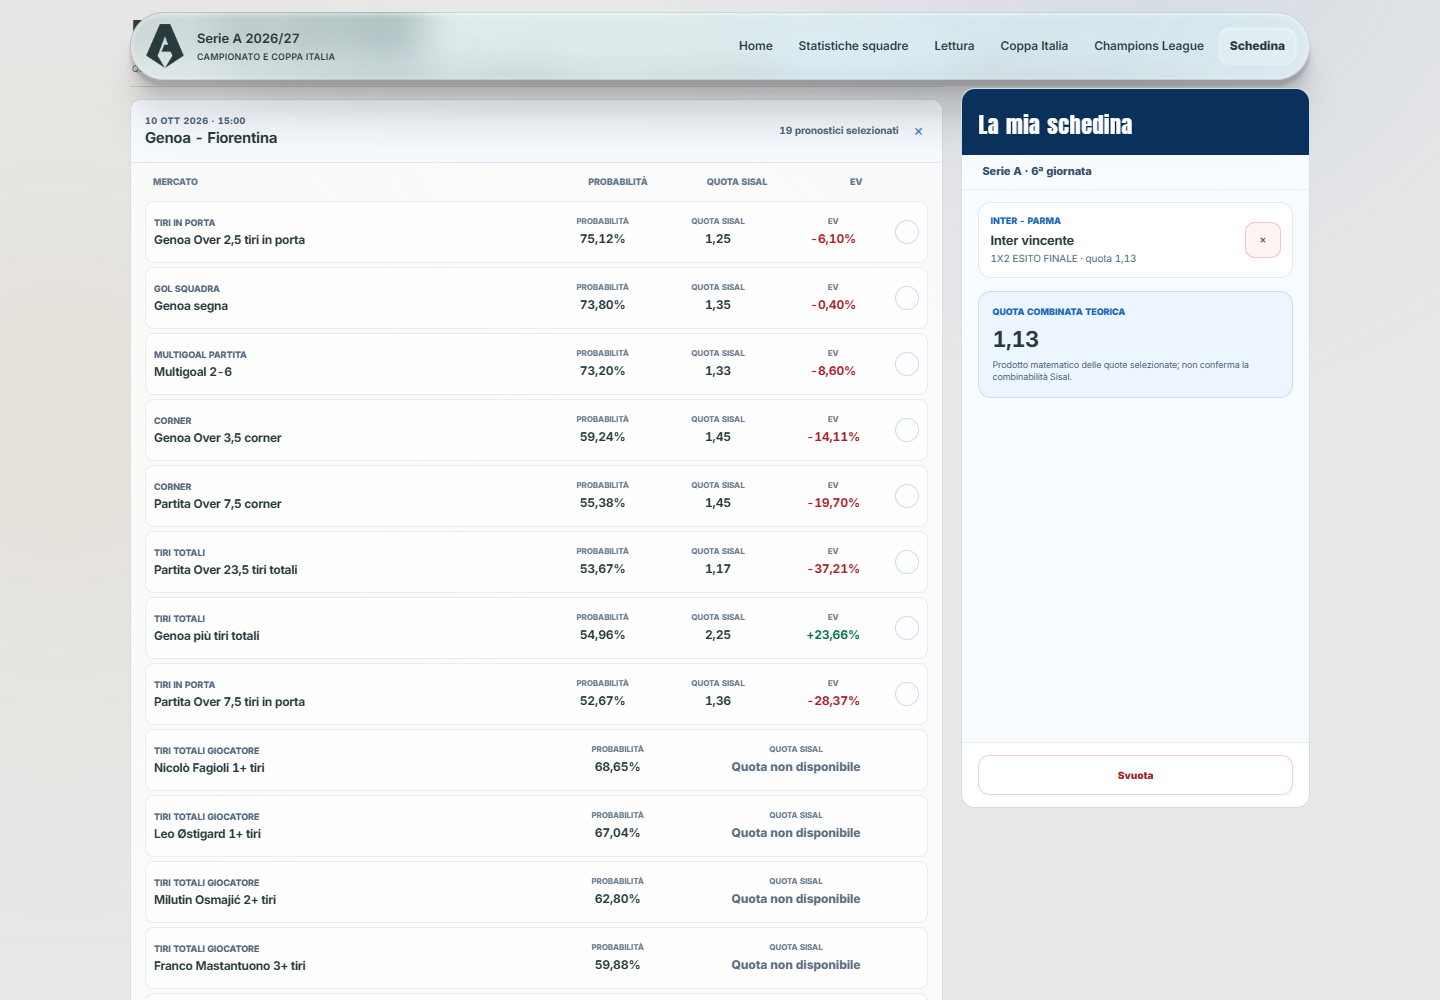
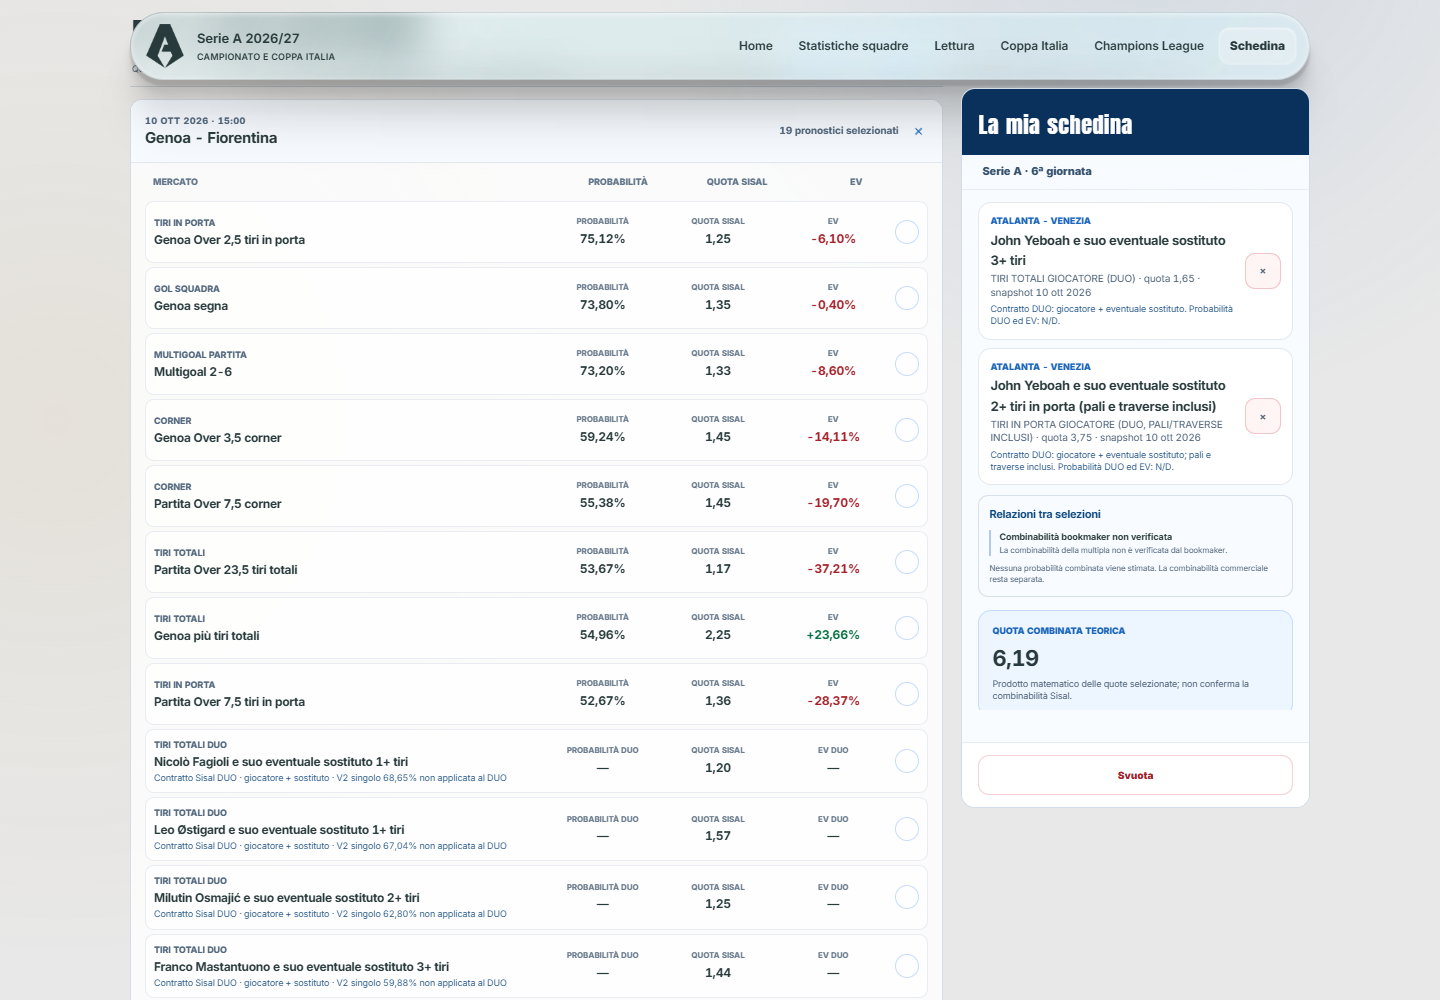
quote editate

diff --git a/schedina.html b/schedina.html
@@ -1,2 +1,2 @@
 <!doctype html>
-<html lang="it"><head><meta charset="utf-8"><meta name="viewport" content="width=device-width,initial-scale=1"><meta name="description" content="Serie A e Coppa Italia 2026/27: Schedina"><title>Schedina | Serie A 2026/27</title><link rel="preconnect" href="https://fonts.googleapis.com"><link rel="preconnect" href="https://fonts.gstatic.com" crossorigin><link href="https://fonts.googleapis.com/css2?family=Anton&family=Inter:ital,opsz,wght@0,14..32,100..900;1,14..32,100..900&display=swap" rel="stylesheet"><link rel="stylesheet" href="css/styles.css?v=20261010-schedine-definitive-v1"></head><body data-page="betting"><header id="site-top" class="site-header"><a class="brand" href="index.html"><span class="brand-mark"><img src="assets/images/serie-a-logo-mark.png" alt=""></span><span><strong>Serie A 2026/27</strong><small>Campionato e Coppa Italia</small></span></a><button class="menu-button" type="button" aria-controls="site-nav" aria-expanded="false">Menu</button><nav id="site-nav" class="site-nav" aria-label="Navigazione principale"><a class="page-link" data-page-link="home" href="index.html">Home</a><a class="page-link" data-page-link="team-stats" href="statistiche-squadre.html">Statistiche squadre</a><a class="page-link" data-page-link="readings" href="lettura.html">Lettura</a><a class="page-link" data-page-link="cup" href="coppa-italia.html">Coppa Italia</a><a class="page-link" data-page-link="champions" href="champions-league.html">Champions League</a><a class="page-link active" data-page-link="betting" href="schedina.html">Schedina</a></nav></header><main id="app" tabindex="-1"><section class="loading"><p class="eyebrow">Caricamento</p><h1>Schedina</h1></section></main><footer class="site-footer"><div class="site-footer-inner"><div class="site-footer-top"><div class="site-footer-intro"><a class="footer-brand" href="index.html"><span class="footer-brand-mark"><img src="assets/images/serie-a-logo-mark.png" alt=""></span><span><strong>Serie A 2026/27</strong><small>Campionato e Coppa Italia</small></span></a><p>Calendario, rose, statistiche e letture della stagione raccolti in un unico spazio.</p><span class="footer-season">Stagione 2026/27</span></div><nav class="footer-nav" aria-label="Navigazione nel footer"><div><strong>Campionato</strong><a href="index.html">Home</a><a href="statistiche-squadre.html">Statistiche squadre</a></div><div><strong>Approfondimenti</strong><a href="lettura.html">Lettura</a><a href="coppa-italia.html">Coppa Italia</a><a href="champions-league.html">Champions League</a><a href="schedina.html">Schedina</a><a href="fonti.html">Fonti</a></div></nav></div><div class="site-footer-bottom"><p>Progetto statico indipendente <span aria-hidden="true">·</span> Fonti consultabili nella pagina dedicata</p><a href="#site-top">Torna su <span aria-hidden="true">↑</span></a></div></div></footer><script type="module" src="js/app.js?v=20261010-schedine-definitive-v1"></script></body></html>
+<html lang="it"><head><meta charset="utf-8"><meta name="viewport" content="width=device-width,initial-scale=1"><meta name="description" content="Serie A e Coppa Italia 2026/27: Schedina"><title>Schedina | Serie A 2026/27</title><link rel="preconnect" href="https://fonts.googleapis.com"><link rel="preconnect" href="https://fonts.gstatic.com" crossorigin><link href="https://fonts.googleapis.com/css2?family=Anton&family=Inter:ital,opsz,wght@0,14..32,100..900;1,14..32,100..900&display=swap" rel="stylesheet"><link rel="stylesheet" href="css/styles.css?v=20261010-md06-duo-markets-v1"></head><body data-page="betting"><header id="site-top" class="site-header"><a class="brand" href="index.html"><span class="brand-mark"><img src="assets/images/serie-a-logo-mark.png" alt=""></span><span><strong>Serie A 2026/27</strong><small>Campionato e Coppa Italia</small></span></a><button class="menu-button" type="button" aria-controls="site-nav" aria-expanded="false">Menu</button><nav id="site-nav" class="site-nav" aria-label="Navigazione principale"><a class="page-link" data-page-link="home" href="index.html">Home</a><a class="page-link" data-page-link="team-stats" href="statistiche-squadre.html">Statistiche squadre</a><a class="page-link" data-page-link="readings" href="lettura.html">Lettura</a><a class="page-link" data-page-link="cup" href="coppa-italia.html">Coppa Italia</a><a class="page-link" data-page-link="champions" href="champions-league.html">Champions League</a><a class="page-link active" data-page-link="betting" href="schedina.html">Schedina</a></nav></header><main id="app" tabindex="-1"><section class="loading"><p class="eyebrow">Caricamento</p><h1>Schedina</h1></section></main><footer class="site-footer"><div class="site-footer-inner"><div class="site-footer-top"><div class="site-footer-intro"><a class="footer-brand" href="index.html"><span class="footer-brand-mark"><img src="assets/images/serie-a-logo-mark.png" alt=""></span><span><strong>Serie A 2026/27</strong><small>Campionato e Coppa Italia</small></span></a><p>Calendario, rose, statistiche e letture della stagione raccolti in un unico spazio.</p><span class="footer-season">Stagione 2026/27</span></div><nav class="footer-nav" aria-label="Navigazione nel footer"><div><strong>Campionato</strong><a href="index.html">Home</a><a href="statistiche-squadre.html">Statistiche squadre</a></div><div><strong>Approfondimenti</strong><a href="lettura.html">Lettura</a><a href="coppa-italia.html">Coppa Italia</a><a href="champions-league.html">Champions League</a><a href="schedina.html">Schedina</a><a href="fonti.html">Fonti</a></div></nav></div><div class="site-footer-bottom"><p>Progetto statico indipendente <span aria-hidden="true">·</span> Fonti consultabili nella pagina dedicata</p><a href="#site-top">Torna su <span aria-hidden="true">↑</span></a></div></div></footer><script type="module" src="js/app.js?v=20261010-md06-duo-markets-v1"></script></body></html>

diff --git a/js/pages/betting.js b/js/pages/betting.js
@@ -79,7 +79,7 @@ export function createPage(deps){
     const evaluation=leg.betSelection.evaluation,market=leg.betSelection.market||{},semantics=market.bookmakerSemantics||{},selection=registerSelection(leg,{fixture,sourceSection}),quote=Number(leg.betSelection.quote.decimal),probability=evaluation.modelProbabilityPct==null?NaN:Number(evaluation.modelProbabilityPct),ev=evaluation.expectedValuePct==null?NaN:Number(evaluation.expectedValuePct),individualProbability=evaluation.individualReference?.modelProbabilityPct==null?NaN:Number(evaluation.individualReference.modelProbabilityPct),duo=semantics.duo===true;
     const metricText=(value,formatter,suffix="")=>Number.isFinite(value)?`${formatter(value)}${suffix}`:"—";
     const contractNote=duo?`<span class="betting-market-contract">Contratto Sisal DUO · giocatore + sostituto${semantics.postsAndCrossbarIncluded?" · pali/traverse inclusi":""}${Number.isFinite(individualProbability)?` · V2 singolo ${pct(individualProbability)}% non applicata al DUO`:""}</span>`:"";
-    return `<li class="betting-market-row betting-selection-row" role="button" tabindex="0" data-selection-row data-personal-pick="${esc(selection.selectionId)}" data-selection-label="${esc(leg.label)}" data-source-section="${esc(sourceSection)}" data-selected-forecast="true" data-order="${index}" data-ev="${Number.isFinite(ev)?ev:""}" data-probability="${Number.isFinite(probability)?probability:""}" data-odds="${quote}" aria-pressed="false" aria-label="Aggiungi alla schedina: ${esc(leg.label)}"><div class="betting-market-copy"><small>${esc(market.family||leg.marketFamily||leg.market||"Mercato")}</small><strong>${esc(leg.label)}</strong>${contractNote}</div><span class="betting-market-metric"><small>${duo?"Probabilità DUO":"Probabilità"}</small><b>${metricText(probability,pct,"%")}</b></span><span class="betting-market-metric"><small>Quota Sisal</small><b>${odds(quote)}</b></span><span class="betting-market-metric betting-market-ev ${Number.isFinite(ev)?ev>=0?"is-positive":"is-negative":""}"><small>${duo?"EV DUO":"EV"}</small><b>${Number.isFinite(ev)&&ev>0?"+":""}${metricText(ev,pct,"%")}</b></span><span class="betting-selection-check" aria-hidden="true">✓</span></li>`;
+    return `<li class="betting-market-row betting-selection-row" role="button" tabindex="0" data-selection-row data-personal-pick="${esc(selection.selectionId)}" data-selection-label="${esc(leg.label)}" data-source-section="${esc(sourceSection)}" data-bookmaker-contract="${duo?"duo":"standard"}" data-selected-forecast="true" data-order="${index}" data-ev="${Number.isFinite(ev)?ev:""}" data-probability="${Number.isFinite(probability)?probability:""}" data-odds="${quote}" aria-pressed="false" aria-label="Aggiungi alla schedina: ${esc(leg.label)}"><div class="betting-market-copy"><small>${esc(market.family||leg.marketFamily||leg.market||"Mercato")}</small><strong>${esc(leg.label)}</strong>${contractNote}</div><span class="betting-market-metric"><small>${duo?"Probabilità DUO":"Probabilità"}</small><b>${metricText(probability,pct,"%")}</b></span><span class="betting-market-metric"><small>Quota Sisal</small><b>${odds(quote)}</b></span><span class="betting-market-metric betting-market-ev ${Number.isFinite(ev)?ev>=0?"is-positive":"is-negative":""}"><small>${duo?"EV DUO":"EV"}</small><b>${Number.isFinite(ev)&&ev>0?"+":""}${metricText(ev,pct,"%")}</b></span><span class="betting-selection-check" aria-hidden="true">✓</span></li>`;
   }
 
 

diff --git a/scripts/test-md06-suggested-forecasts.js b/scripts/test-md06-suggested-forecasts.js
@@ -19,6 +19,7 @@ const sha256 = relative => crypto.createHash("sha256").update(fs.readFileSync(pa
 const clone = value => JSON.parse(JSON.stringify(value));
 const schedina = read("data/normalized/schedina-md06.json");
 const report = read("output/reports/serie-a-md06-definitive-selection-2026-10-10.json");
+const oddsSnapshot = read("data/normalized/odds/sisal/serie-a.json");
 const ui = fs.readFileSync(path.join(root, "js/pages/betting.js"), "utf8");
 const rows = schedina.marketCatalog.matches.flatMap(match => match.selections);
 const suggestions = rows.filter(leg => leg.suggestionAnalysis?.suggested);
@@ -65,6 +66,21 @@ assert(playerForecasts.every(leg => leg.betSelection.market.bookmakerSemantics?.
 assert(playerForecasts.filter(leg => leg.suggestionAnalysis.family === "sot").every(leg => leg.betSelection.market.bookmakerSemantics?.postsAndCrossbarIncluded === true), "Pali/traverse non dichiarati sui SOT");
 assert(playerForecasts.every(leg => /DUO|SOST/i.test(leg.betSelection.compatibility.bookmakerTarget || "")), "Contratto DUO non conservato");
 assert.equal(new Set(playerForecasts.map(leg => `${leg.matchId}:${leg.playerId}:${leg.suggestionAnalysis.family}`)).size, playerForecasts.length, "Più soglie per giocatore e statistica");
+const oddsEvents = new Map(oddsSnapshot.events.map(event => [event.canonicalMatchId, event]));
+for (const leg of playerForecasts) {
+  const semantics = leg.betSelection.market.bookmakerSemantics;
+  const expectedCode = leg.suggestionAnalysis.family === "shots" ? "28507" : "28506";
+  assert.equal(semantics.marketCode, expectedCode, `${leg.selectionId}: codice mercato errato`);
+  const providerMarket = oddsEvents.get(leg.matchId)?.markets.find(market => String(market.providerMarketId) === String(leg.providerMarketId));
+  assert(providerMarket, `${leg.selectionId}: mercato assente dallo snapshot`);
+  assert.equal(String(providerMarket.marketCode), expectedCode, `${leg.selectionId}: codice snapshot errato`);
+  assert.equal(Number(providerMarket.threshold), Number(leg.threshold), `${leg.selectionId}: soglia snapshot errata`);
+  assert.deepEqual(providerMarket.providerPlayerIds.map(String), [semantics.providerPlayerId], `${leg.selectionId}: provider player ID non univoco`);
+  const providerSelection = providerMarket.selections.find(selection => String(selection.providerSelectionId) === String(leg.providerSelectionId));
+  assert(providerSelection && providerSelection.status === "open" && providerSelection.name === "OVER", `${leg.selectionId}: selezione OVER non verificata`);
+  assert.equal(Number(providerSelection.odds), Number(leg.odds), `${leg.selectionId}: quota diversa dallo snapshot`);
+  assert.equal(leg.betSelection.quote.verifiedAt, oddsSnapshot.retrievedAt, `${leg.selectionId}: data snapshot non conservata`);
+}
 assert.equal(isCompatibleIndividualMarket({ marketScope: "player", marketName: "U/O TIRI TOTALI GIOCATORE (DUO) INC TS", variantName: "ROSSI E SUO SOST." }, "shots"), false);
 assert.equal(isSupportedDuoMarket({ marketScope: "player", marketCode: "28507", marketName: "U/O TIRI TOTALI GIOCATORE (DUO) INC TS", variantName: "ROSSI U/O 2.5 SOMMA TIRI E SUO SOST. INCL. T.S." }, "shots"), true);
 assert.equal(isSupportedDuoMarket({ marketScope: "player", marketCode: "28506", marketName: "U/O TIRI IN PORTA GIOCATORE (DUO) INC PALI TRAVERSE INC TS", variantName: "ROSSI U/O 1.5 SOMMA TIRI IN PORTA INC PALI E TRAVERSE E SUO SOST. INCL. T.S." }, "sot"), true);

diff --git a/scripts/build-site.js b/scripts/build-site.js
@@ -17,7 +17,7 @@ const homeVersion = "20260919-roma-inter-juventus-fatigue-v1";
 const calendarVersion = "20260919-roma-inter-juventus-fatigue-v1";
 const teamVersion = "20261009-probable-lineups-md06-v2";
 const leaderboardVersion = "20261009-probable-lineups-md06-v2";
-const bettingVersion = "20261010-schedine-definitive-v1";
+const bettingVersion = "20261010-md06-duo-markets-v1";
 const readingVersion = "20261010-readings-chronology-v1";
 const cupVersion = "20260919-coppa-events-v1";
 const championsVersion = "20261003-champions-md02-calendar-v1";
